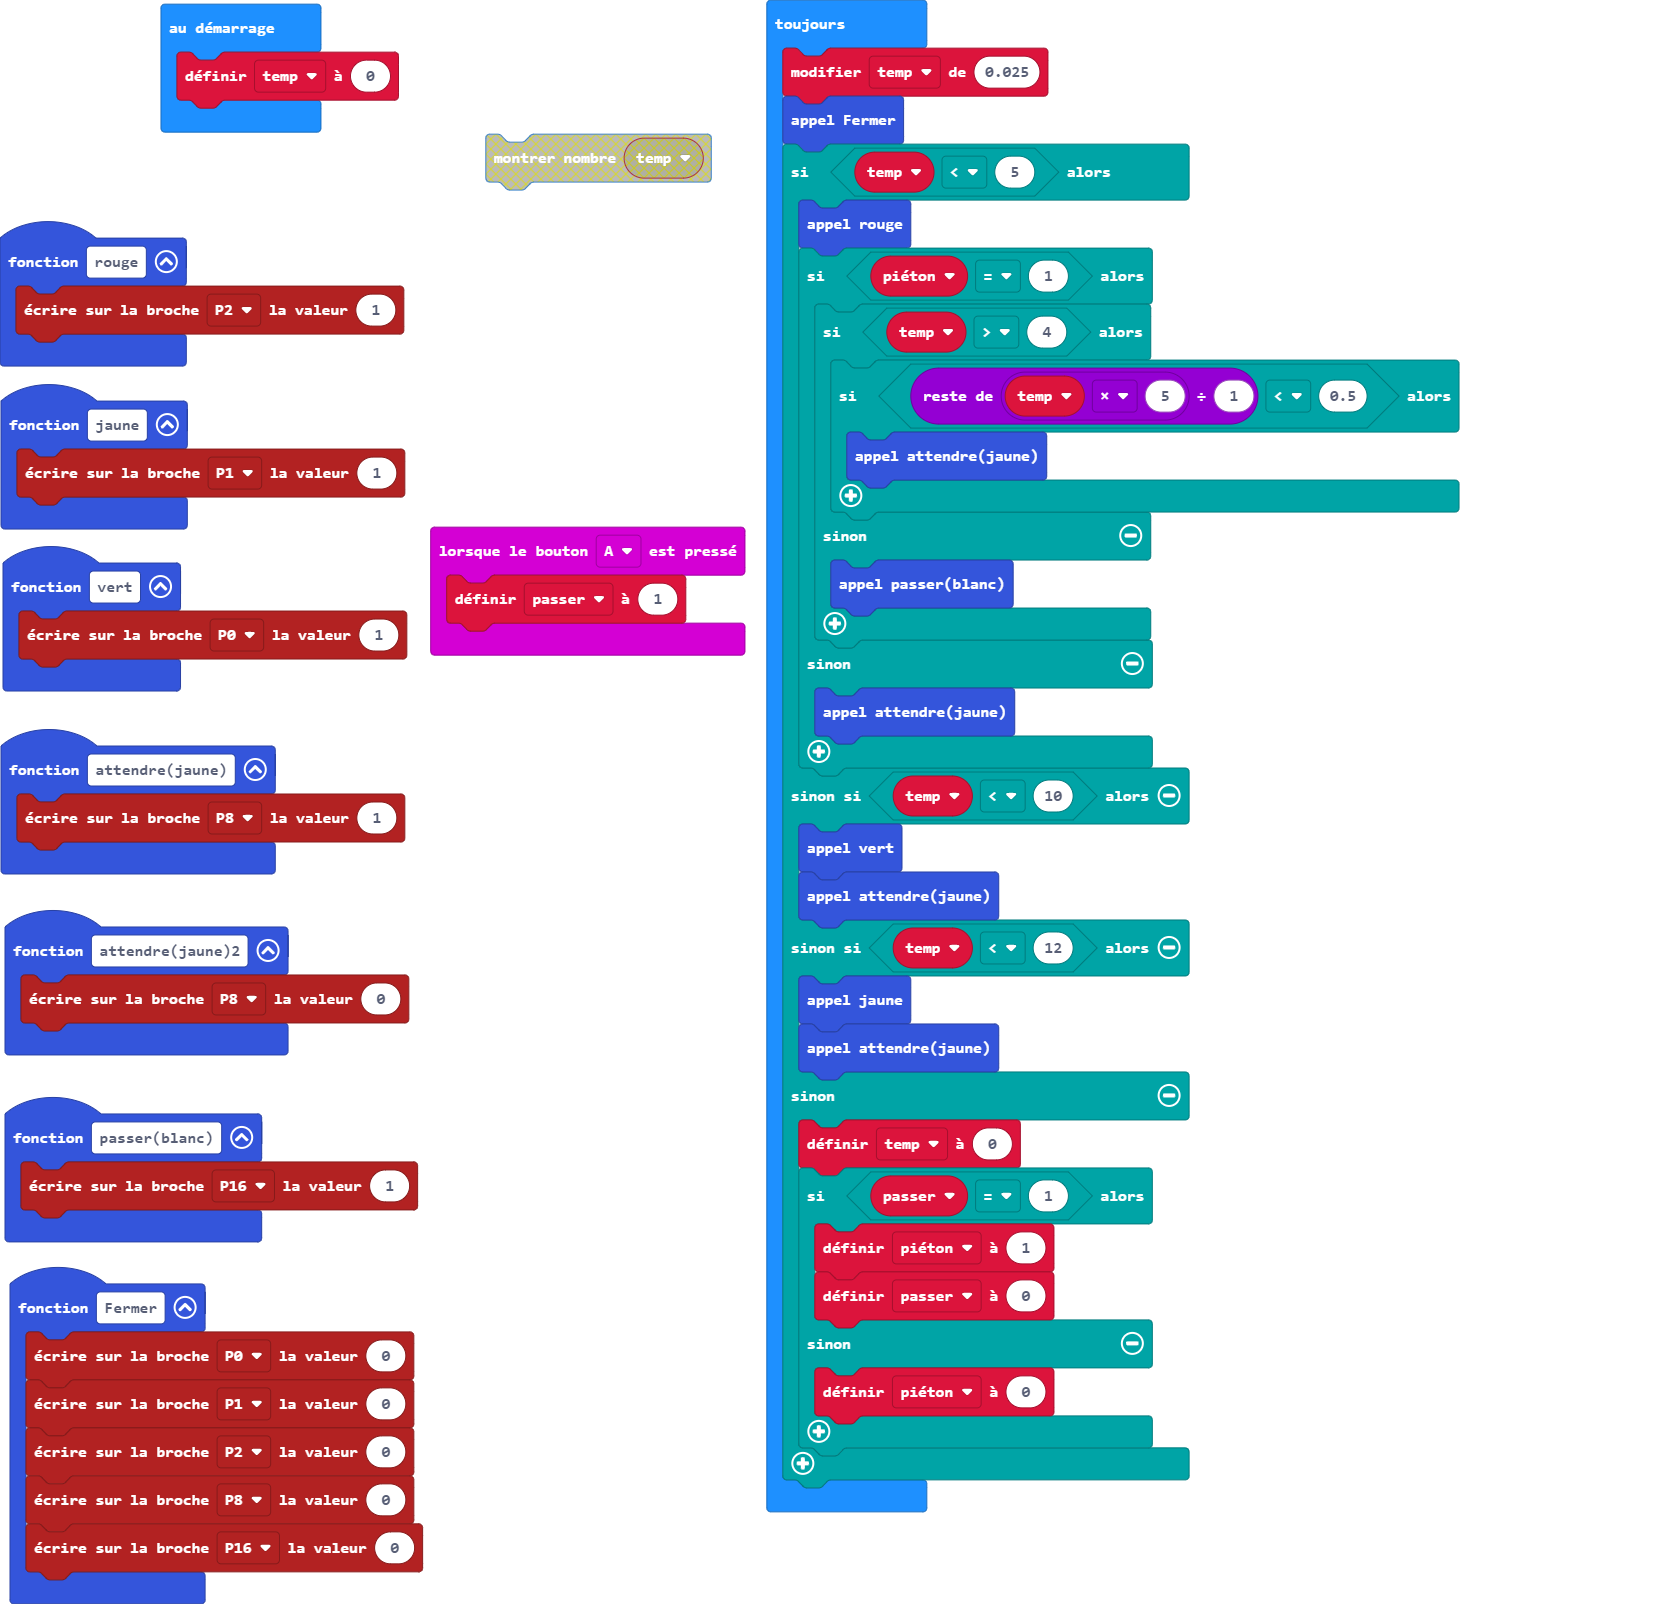
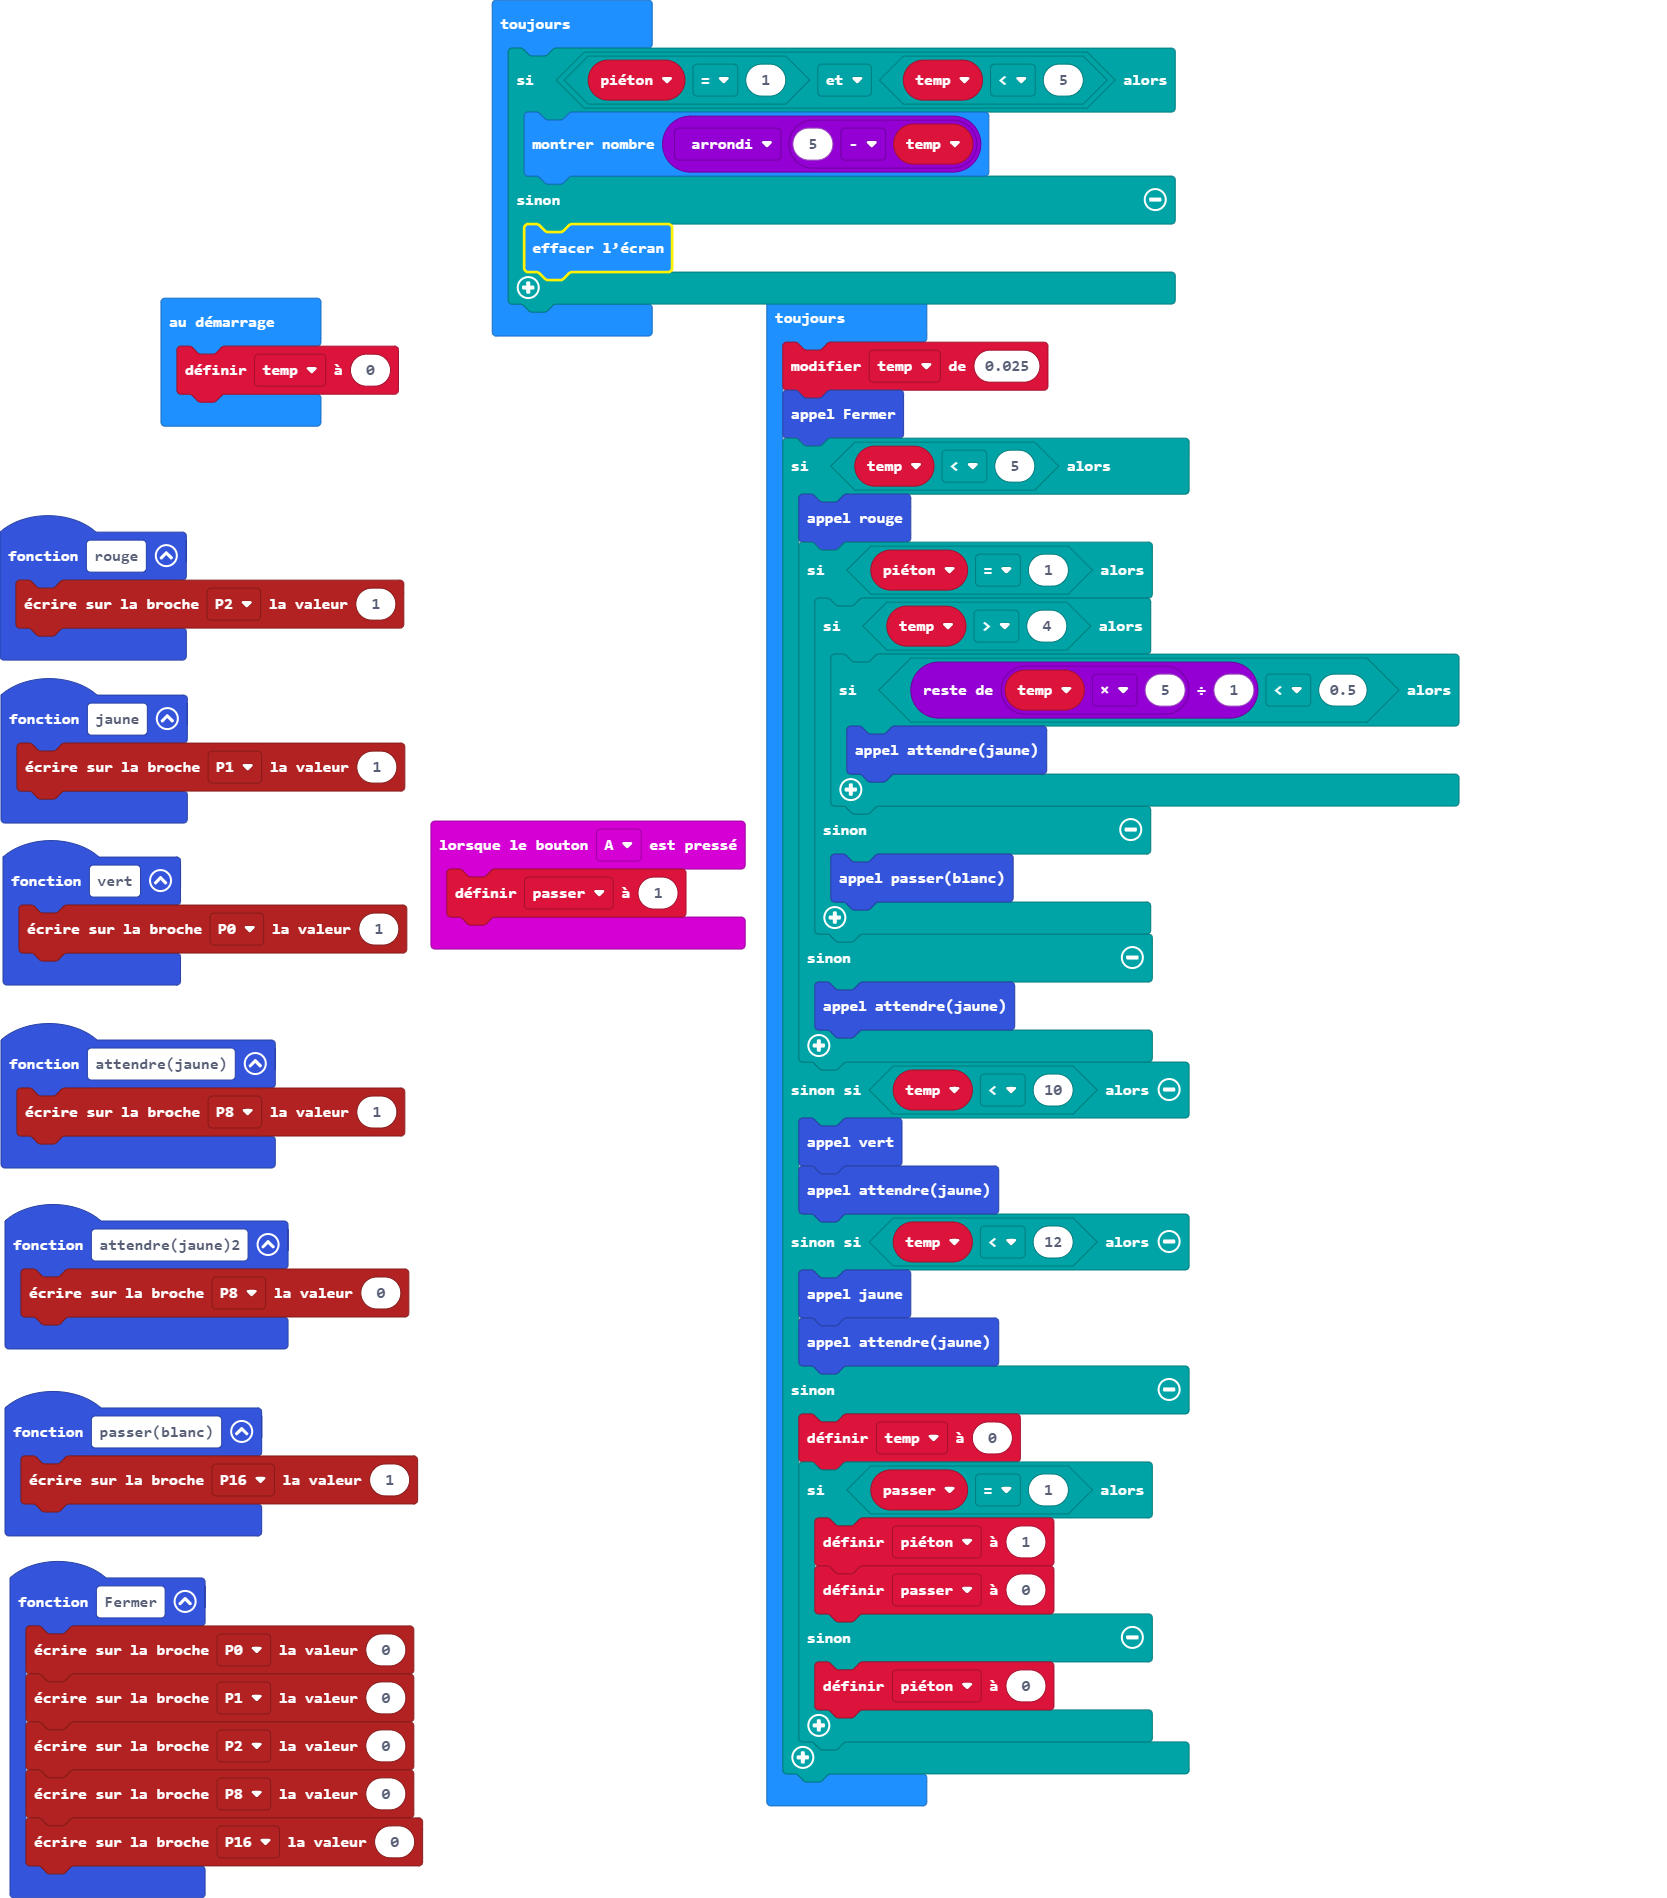
Mise à jour main.blocks, main.ts

diff --git a/main.ts b/main.ts
@@ -30,6 +30,13 @@ let piéton = 0
 let passer = 0
 let temp = 0
 basic.forever(function () {
+    if (piéton == 1 && temp < 5) {
+        basic.showNumber(Math.round(5 - temp))
+    } else {
+        basic.clearScreen()
+    }
+})
+basic.forever(function () {
     temp += 0.025
     Fermer()
     if (temp < 5) {
